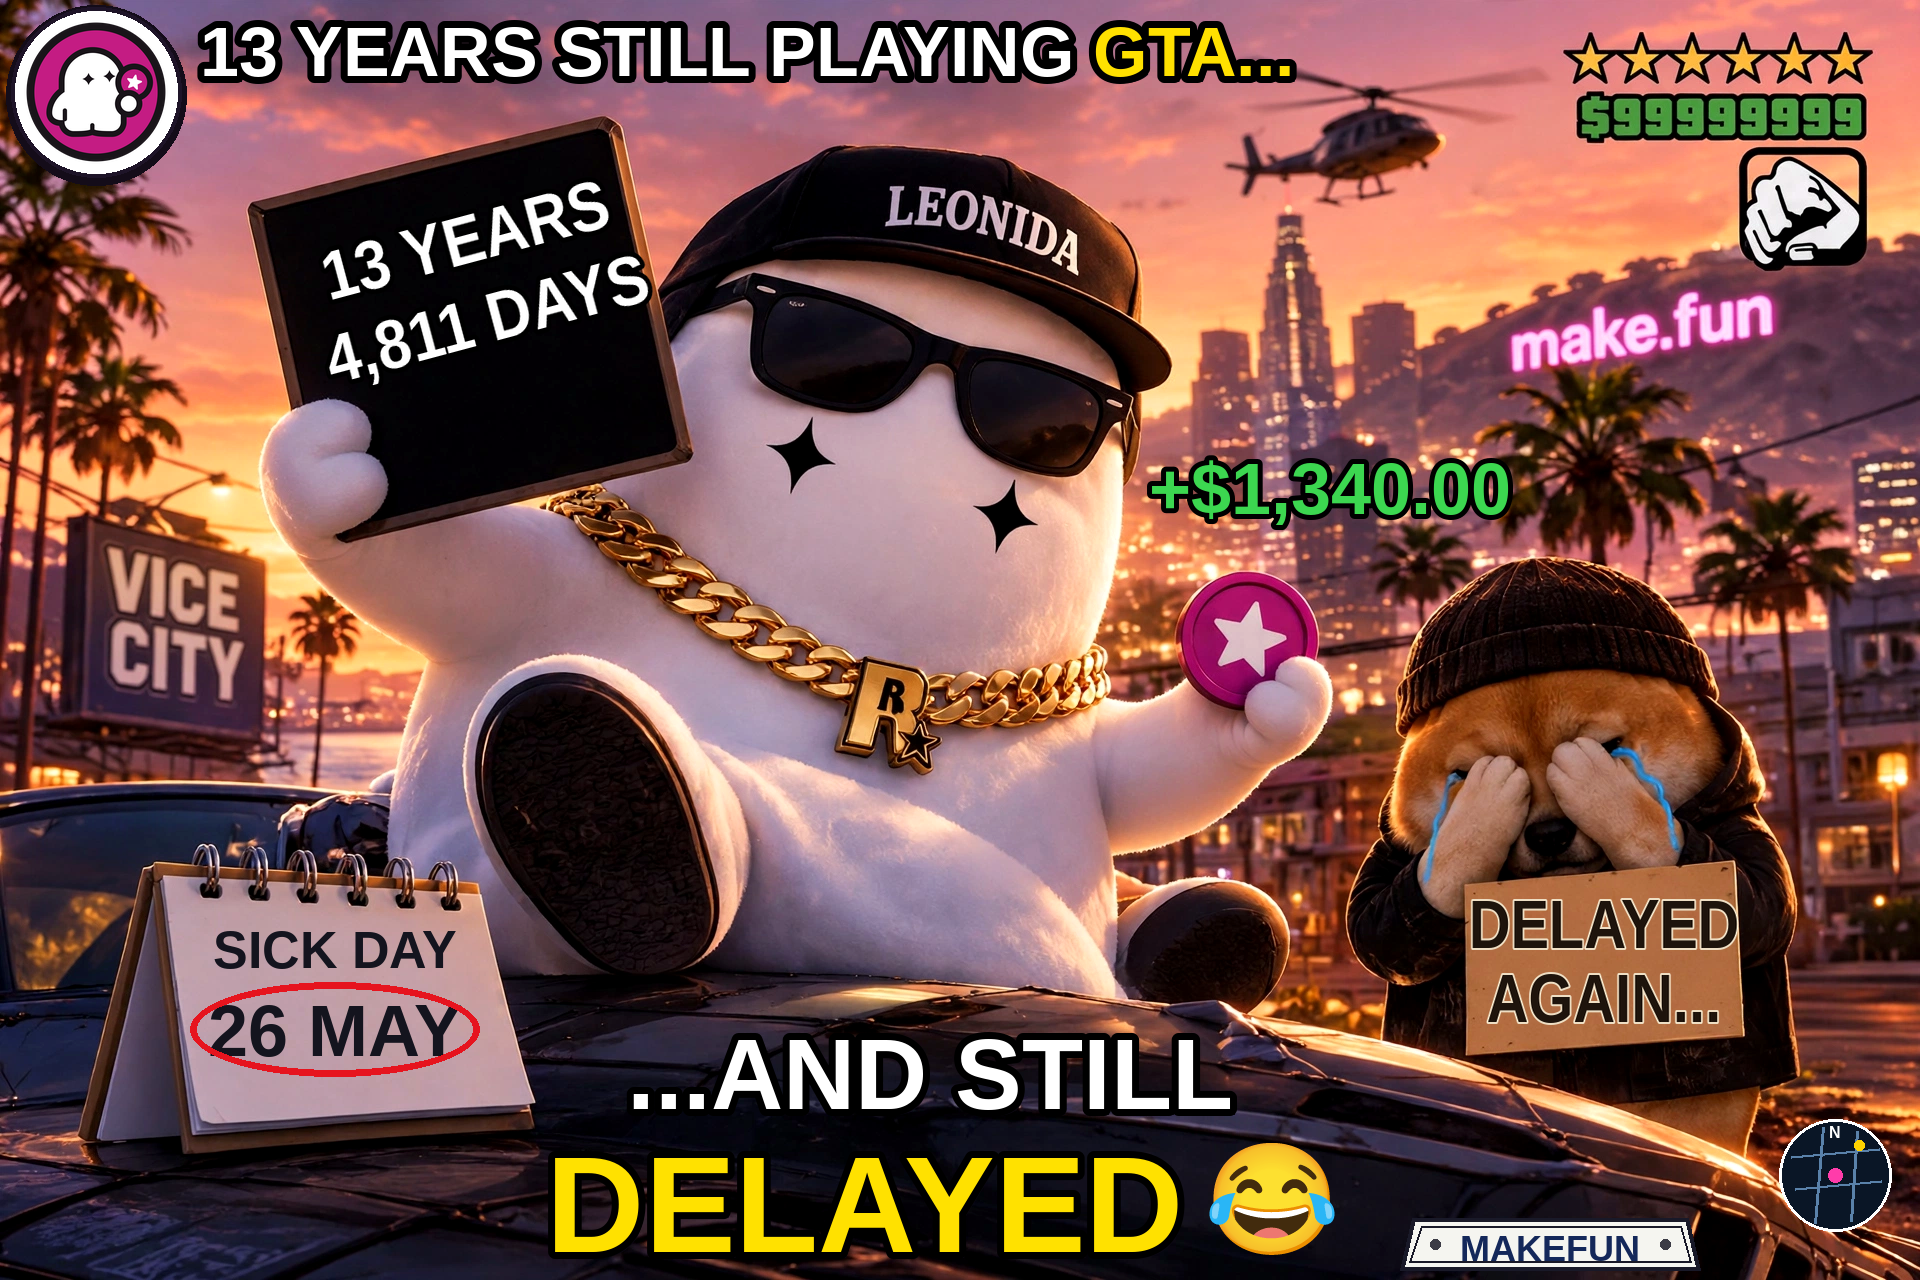
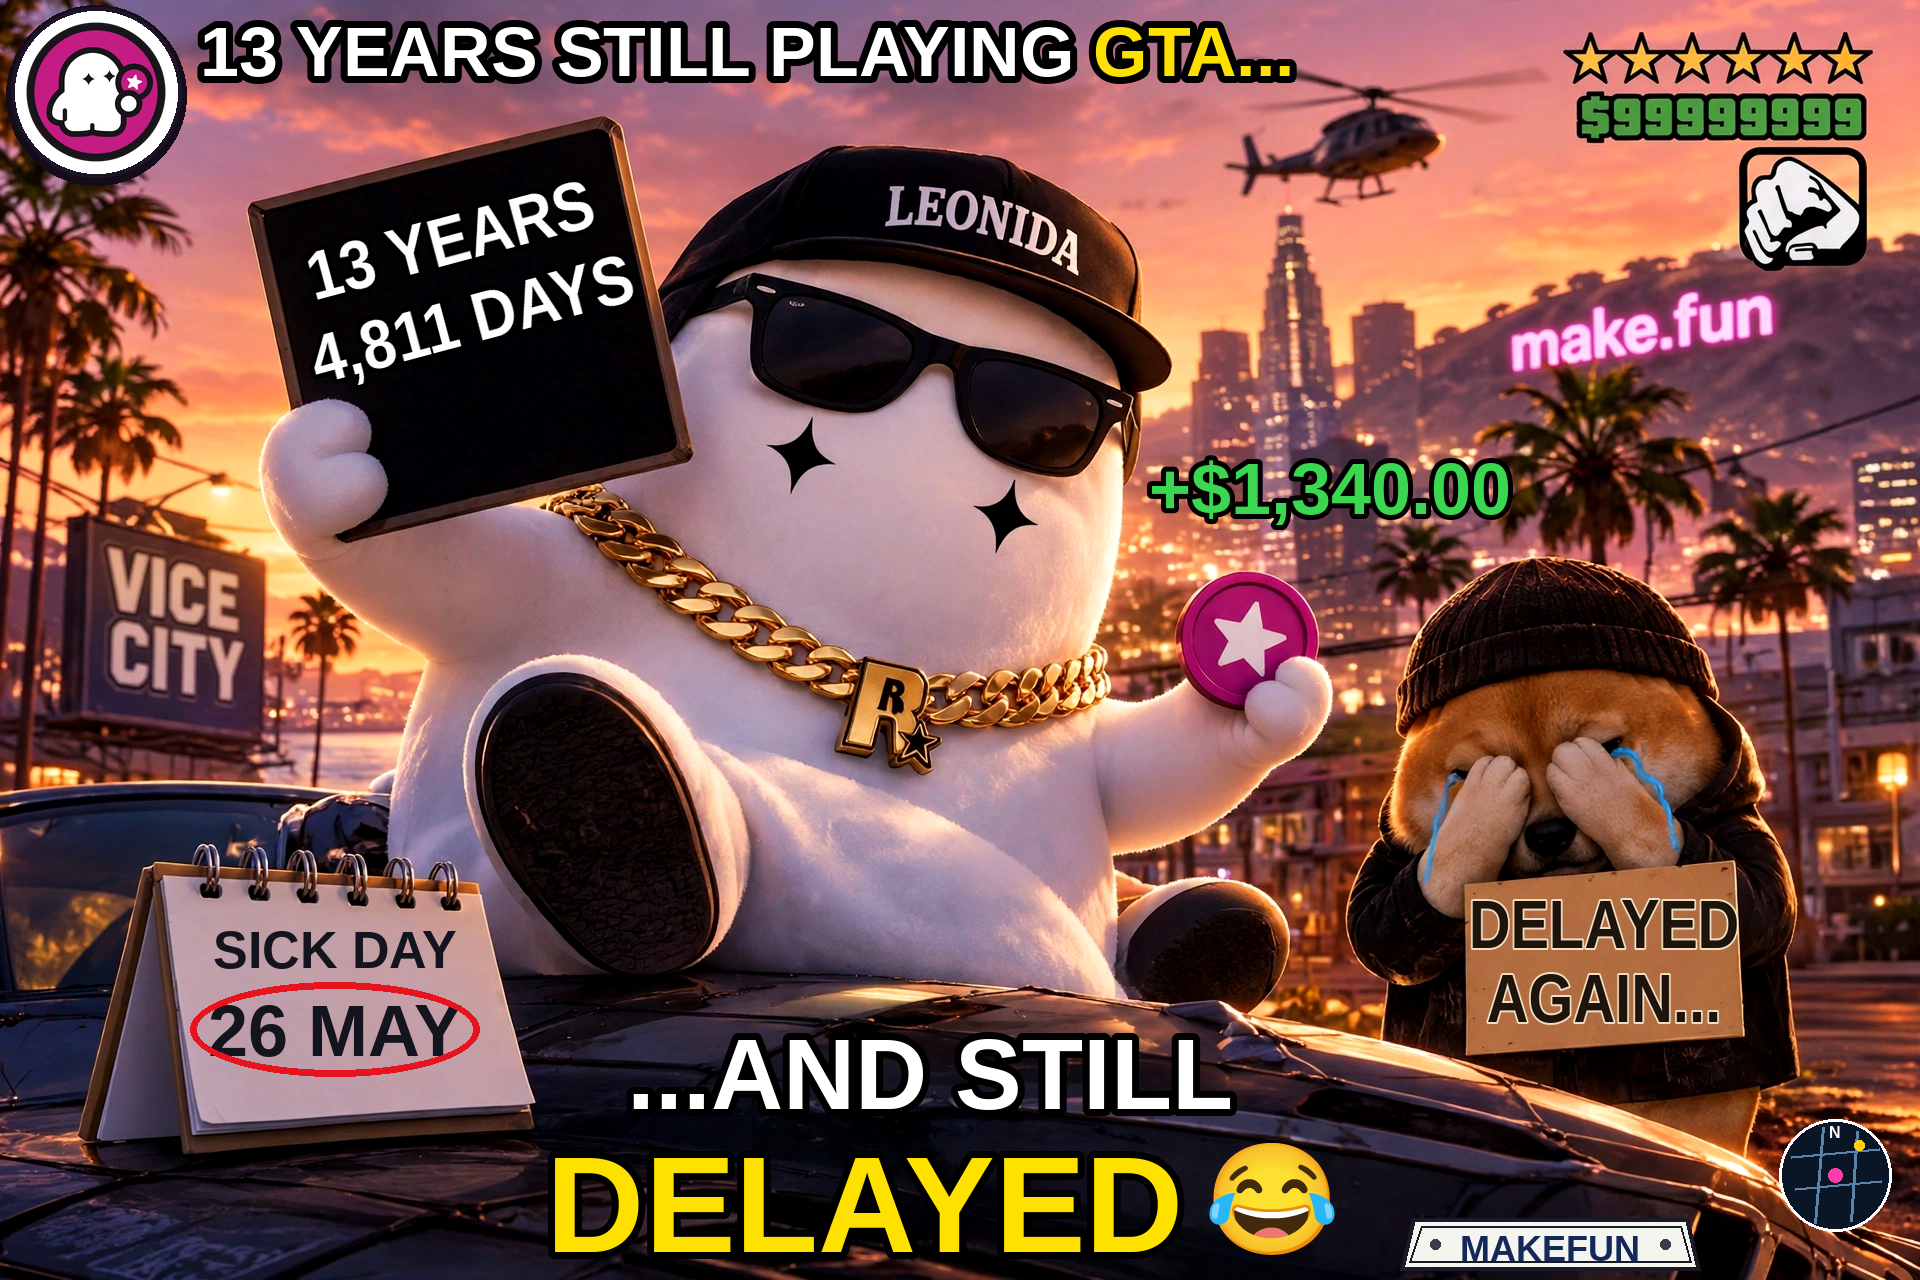
GTA 6 meme v5.4: black board text shifted left 15px, clear of frame on all sides

Changed region(s): [[0.1562, 0.125, 0.3438, 0.3125]]

diff --git a/draw_v5.py b/draw_v5.py
@@ -98,6 +98,14 @@ def main():
     # tail overlapped the hand by ~5px. Top margins were 87-95px, so +30px
     # up leaves a ~25px clear gap to the hand and still ~57-65px to the
     # board's top edge. Font size and rotation unchanged.
+    # v5.4: text shifted LEFT 15px (paste centre x 475 -> 460), y unchanged.
+    # Measured on v5.3 (white glyphs vs bronze frame inner edge, per row):
+    # "4,811 DAYS" right margin was ~0px — the "S" white pixels reached the
+    # right frame line (stroke overlapped it ~2-4px) — while its left margin
+    # was ~34px (line 1: L ~48 / R ~17-23). A 15px left shift centres the
+    # dominant line (L ~19 / R ~15-17 white) and keeps a clear black gap
+    # from the frame on BOTH sides; 20px would have left only ~6px on the
+    # left. Top/bottom margins unchanged (top ~54px, hand gap ~25px).
     layer = Image.new("RGBA", (420, 180), (0, 0, 0, 0))
     ld = ImageDraw.Draw(layer)
     f1, f2 = font(68), font(68)
@@ -110,9 +118,9 @@ def main():
         y += ff.size + 14
     layer = layer.resize((378, 180), Image.LANCZOS)  # 0.9x horizontal squeeze
     rot = layer.rotate(15, expand=True, resample=Image.BICUBIC)
-    im.paste(rot, (475 - rot.width // 2, 275 - rot.height // 2), rot)
+    im.paste(rot, (460 - rot.width // 2, 275 - rot.height // 2), rot)
     print("board fonts:", f1.size, f2.size, "rotated layer:", rot.size,
-          "paste centre y: 275 (v5.3, +30px up)")
+          "paste centre: (460, 275) — v5.4, -15px left, y unchanged")
 
     # ---- 3. Dog's cardboard: "DELAYED" / "AGAIN..." (English only).
     # True cardboard quad measured from v5-base.png (tan ~(170,108,69)
